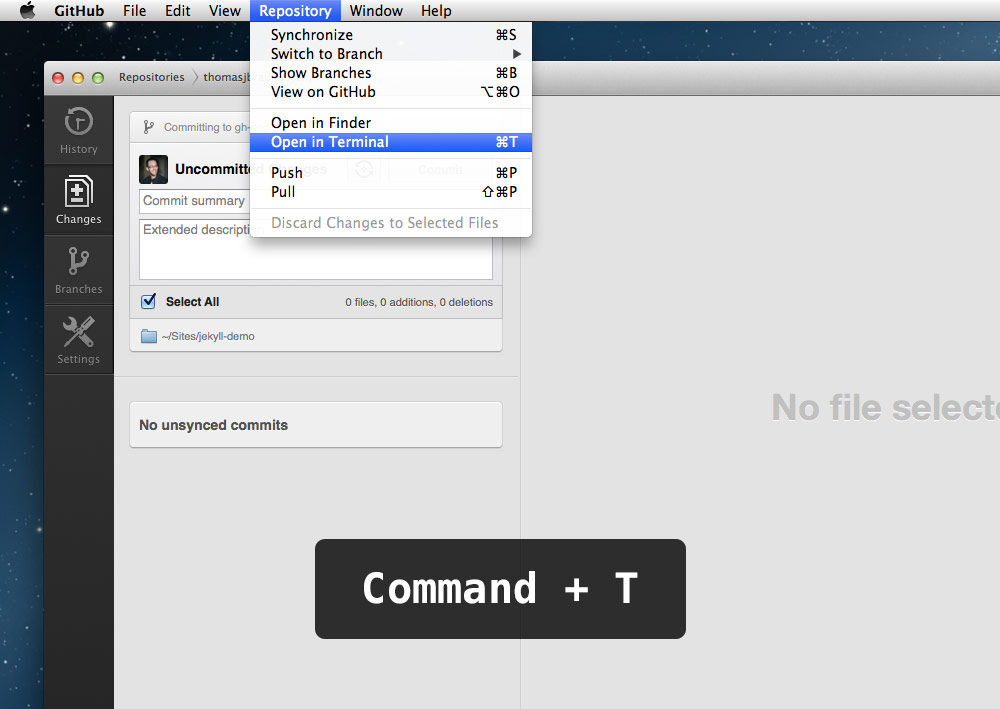
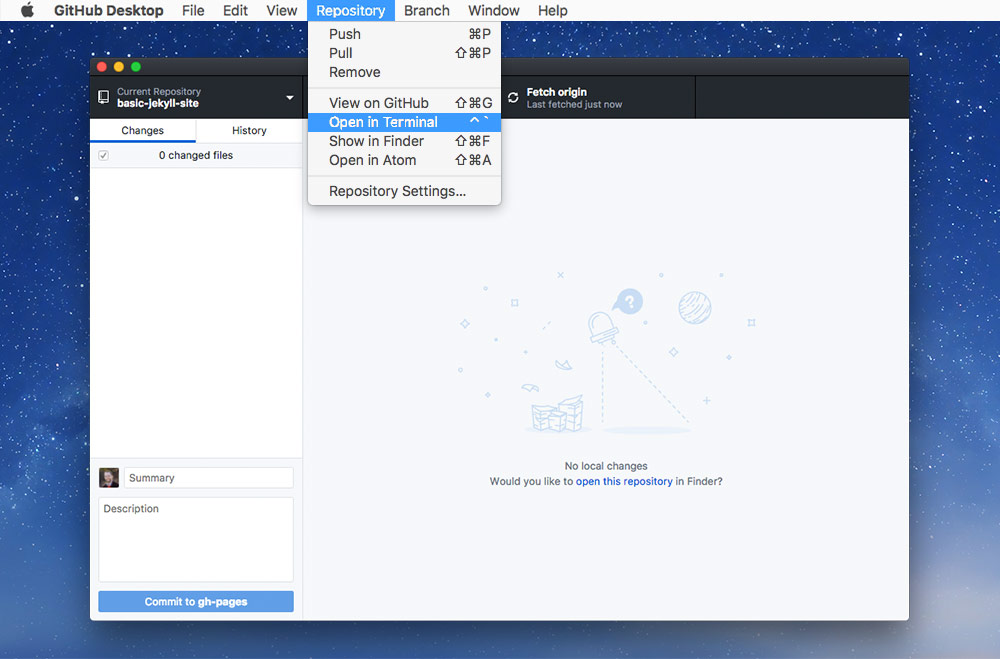
Update the Jekyll topics

diff --git a/jekyll-cheat-sheet.md b/jekyll-cheat-sheet.md
@@ -13,14 +13,14 @@ groups:
           - |
             ```
             xcode-select --install
-            ruby -e "$(curl -fsSL https://raw.githubusercontent.com/Homebrew/install/master/install)"
+            /usr/bin/ruby -e "$(curl -fsSL https://raw.githubusercontent.com/Homebrew/install/master/install)"
             brew install ruby
             gem install jekyll
             ```
           - '[**☛ Jekyll installation.**](/topics/jekyll-installation/)'
       - name: '*Starting & stopping*'
         details:
-          - 'First, open your Jekyll folder in Terminal using the GitHub app shortcut—`⌘T`'
+          - 'First, open your Jekyll folder in Terminal using the GitHub app shortcut—``⌃` ``'
           - '*Start Jekyll:*'
           - |
             ```
@@ -97,10 +97,10 @@ groups:
         details:
           - 'First create a new file inside the `_layouts` folder, name it whatever you want. Inside that file put the common HTML.'
           - '**Use `{{content}}` as the placeholder for the HTML from each page.**'
+          - '&nbsp;'
+          - '`_layouts/default.html`'
           - |
             ```html
-            <!-- _layouts/default.html -->
-
             <!DOCTYPE html>
             <html lang="en-ca">
             <head>
@@ -113,10 +113,10 @@ groups:
             </html>
             ```
           - 'At the top of each page use YAML front matter to denote which layout to use:'
+          - '&nbsp;'
+          - '`index.html`'
           - |
             ```html
-            <!-- index.html -->
-
             ---
             layout: default
             ---
@@ -127,20 +127,20 @@ groups:
       - name: '*Page variables*'
         details:
           - 'To pass information from a page to a layout you can use YAML frontmatter.'
+          - '&nbsp;'
+          - '`index.html`'
           - |
             ```html
-            <!-- index.html -->
-
             ---
             layout: default
             title: Plant Eaters
             ---
             ```
           - 'Then inside the layout, we can use placeholder variables:'
+          - '&nbsp;'
+          - '`_layouts/default.html`'
           - |
             ```html
-            <!-- _layouts/default.html -->
-
             <!DOCTYPE html>
             <html lang="en-ca">
             <head>
@@ -164,10 +164,10 @@ groups:
           - 'Data files allow us to separate content from it’s presentation HTML.'
           - '*Put data files in the `_data` folder.*'
           - '**All the data is found in the variable `site.data`**'
+          - '&nbsp;'
+          - '`_data/dinos.yml`'
           - |
             ```yaml
-            # _data/dinos.yml
-
             - name: Tyrannosaurus
               diet: Meat
               size: Big
@@ -182,10 +182,10 @@ groups:
         details:
           - 'Includes are for making reusable, repeatable HTML blocks.'
           - '*Put includes int the `_includes` folder.*'
+          - '&nbsp;'
+          - '`_includes/button.html`'
           - |
             ```html
-            <!-- _includes/button.html -->
-
             <a class="btn" href="/go/">Go!</a>
             ```
           - |
@@ -199,9 +199,10 @@ groups:
             {% include button.html url="/plant-eaters/" title="Plant eaters" %}
             ```
           - |
+          - '&nbsp;'
+          - '`_includes/button.html`'
+          - |
             ```html
-            <!-- _includes/button.html -->
-
             <a class="btn" href="{{include.url}}">{{include.title}}</a>
             ```
       - name: '*Posts*'

diff --git a/jekyll.md b/jekyll.md
@@ -534,6 +534,7 @@ To display a list of posts in your website, you can use Jekyll’s loop:
 - [Jekyll Setting Up on GitHub Pages](http://jekyllrb.com/docs/github-pages/)
 - [Shopify: Liquid for Designers](https://github.com/Shopify/liquid/wiki/Liquid-for-Designers)
 - [Shopify: Liquid Basics](http://docs.shopify.com/themes/liquid-basics)
+- [CloudCannon Jekyll Cheat Sheet](https://learn.cloudcannon.com/jekyll-cheat-sheet/)
 - [Jekyll by Example](http://www.andrewmunsell.com/tutorials/jekyll-by-example/)
 - [GitHub Pages plugin list](https://help.github.com/articles/using-jekyll-plugins-with-github-pages/)
 - [GitHub Pages versions](https://pages.github.com/versions/)

diff --git a/jekyll-terminal-guide.md b/jekyll-terminal-guide.md
@@ -1,7 +1,7 @@
 ---
 title: "Jekyll terminal guide"
 tags: "jekyll terminal command line serve watch base url"
-desc: "A guide to Jekyl’s terminal commends on yoyr Mac."
+desc: "A guide to Jekyll’s terminal commands on your Mac."
 video: Vvh-PWMOf4g
 ---
 
@@ -17,7 +17,7 @@ In the GitHub application, click `Repository > Open in Terminal`.
 
 ![](open.jpg)
 
-**Or** press `Command+T`.
+**Or** press ``Control-` ``.
 
 ---
 
